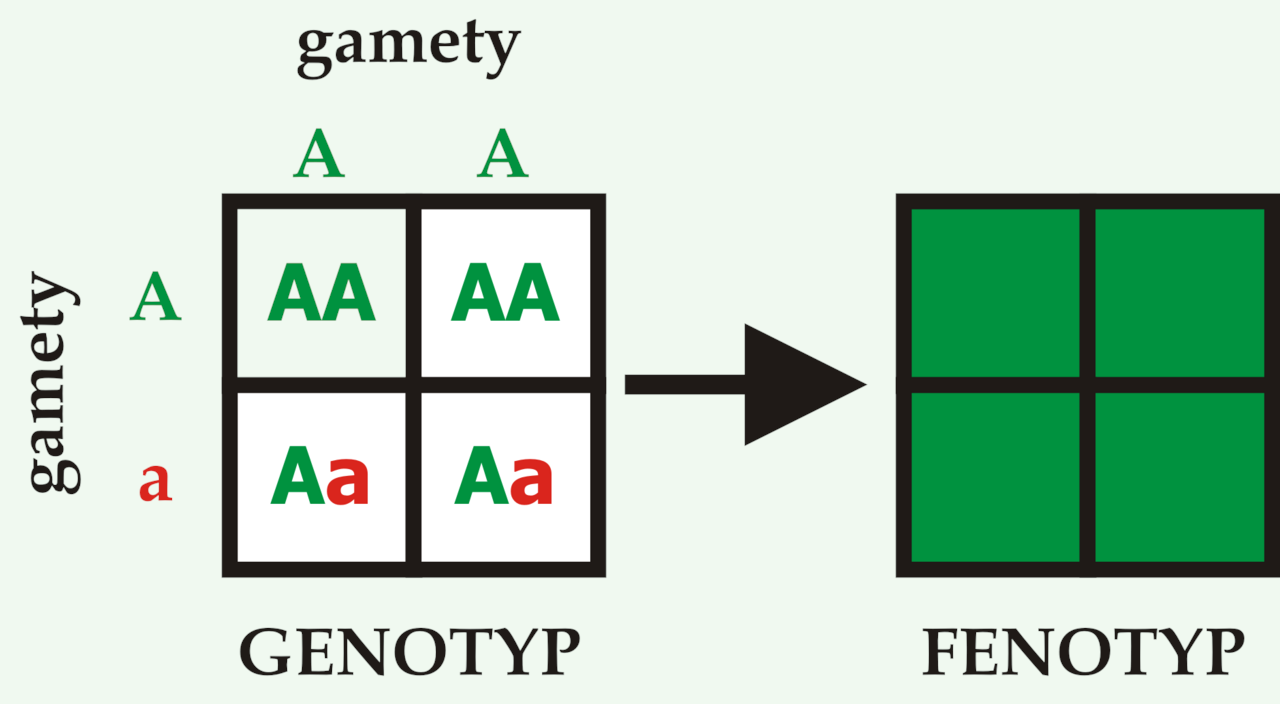
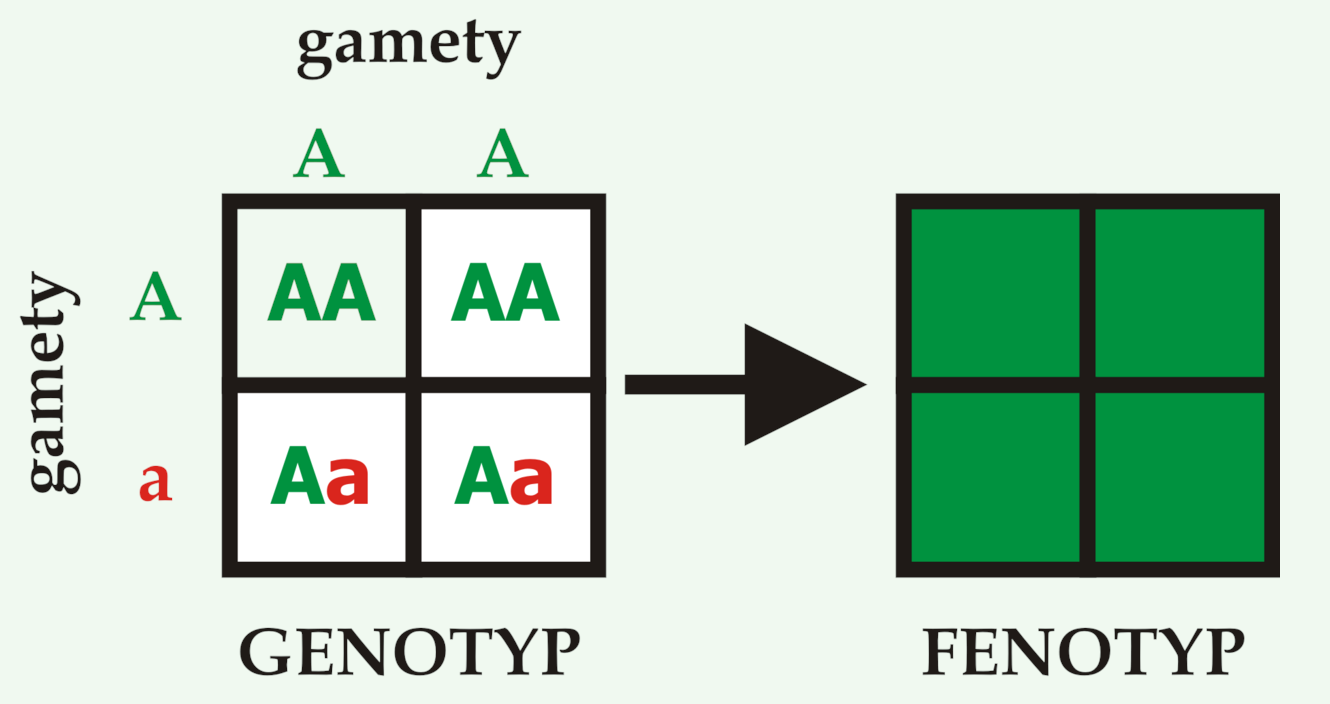
Texty pokračování

diff --git a/environmental-protection.html b/environmental-protection.html
@@ -211,7 +211,7 @@
             <p>Od 17. století ale začal počet obyvatel prudce stoupat. Hlavním důvodem byl zejména rozvoj zemědělství, díky němuž bylo k dispozici více potravy,
                 a také zlepšování hygieny i lékařských znalostí, které omezovalo epidemie, hlavně mor. Kolem roku 1650 měla Země asi 500 milionů obyvatel, v roce 1950 už 2,4 miliardy
                 a během dalších padesáti let dosáhl celkový počet lidí na Zemi 6 miliard. Doporučujeme se podívat na stránku Worldometers, kde najdete odhad aktuálního počtu obyvatel na Zemi. </p>
-                <a href="https://www.worldometers.info/cs/svetova-populace/" target="_blank" class="button" aria-label="Otevřít odhad aktuálního počtu obyvatel">Počet obyvatel na Worldometers</a>
+                <a href="https://www.worldometers.info/cs/svetova-populace/" target="_blank" class="button" aria-label="Otevřít odhad aktuálního počtu obyvatel">Počet obyvatel na Worldometers <span class="no-print">↗</span></a>
             <p>S rostoucím počtem obyvatel se zvyšují i nároky na potravu, spotřební zboží, bydlení, dopravu a další oblasti. To zákonitě znamená větší tlak na prostředí. Rozsáhlé odlesnění (a tedy vodní a větrná eroze a změna vodního režimu krajiny a klimatu)
                 nastalo již během starověku, neboť docházelo k rozvoji zemědělství. Po průmyslové revoluci v 18. století se navíc rozběhla intenzivnější těžba dřeva, uhlí, ropy a rud, rozšiřovala se města, vznikala nová sídla a budovaly se komunikace i další dopravní stavby.
                 Tyto zásahy vedly k výraznému poškození ekosystémů, k vyhubení nebo oslabení mnoha druhů organismů, ale i k šíření některých jiných druhů, například prasete, ovce, slepice, pšenice, rýže, brambor, potkana, vrabce nebo mouchy. </p>
@@ -361,7 +361,7 @@
             </div>
             <p>Jak vyplývá z předchozích částí, člověk vytváří na přírodu značný tlak a ohrožuje tím řadu druhů rostlin i živočichů. Je nutné chránit vybrané druhy a území, ale také
                 chránit i základní složky životního prostředí, tedy vodu, vzduch a půdu </p>
-            <ol style="list-style-type: upper-roman;">
+            <ol>
                 <li>
                     <h2>Ochrana přírody ve světě</h2>
                     <p>Mezi instituce zabývající se ochranou přírody ve světě patří například: </p>
@@ -388,15 +388,76 @@
 
                 <li>
                     <h2>Ochrana přírody v ČR</h2>
-                    <p>V České republice je ochrana přírody zakotvena v Ústavě a v Listině základních práv a svobod. O ochranu přírody se u nás starají: </p>
+                    <p>V České republice se ochrana přírody opírá o činnost státních institucí, odborných organizací i nevládních spolků. Jejich úkolem je chránit přírodní bohatství země, předcházet poškozování životního prostředí a pečovat o zachování
+                        biologické rozmanitosti pro budoucí generace. O ochranu přírody se u nás starají:  </p>
                     <ul class="no-break">
                         <li>Ministerstvo životního prostředí,</li>
                         <li>Česká inspekce životního prostředí,</li>
                         <li>Greenpeace ČR,</li>
                         <li>Duha aj.</li>
                     </ul>
-                    <p>V ČR zároveň přibývá chráněných území. Patří sem národní parky, například Krkonošský NP, NP Šumava, NP Podyjí a NP České Švýcarsko, dále chráněné krajinné oblasti, například CHKO Beskydy, Jeseníky
-                        nebo České středohoří, a také národní přírodní rezervace a další typy území. </p>
+                    <p>Činnost těchto institucí vychází z právních předpisů, které určují pravidla ochrany přírody a krajiny i jednotlivých složek životního prostředí. Ochrana přírody je v České republice zakotvena v Ústavě a v Listině základních práv a svobod
+                        a podrobně ji upravují další zákony. </p>
+                    <h3>Legislativa na ochranu přírody v ČR</h3>
+                    <ol style="list-style-type: lower-roman;">
+                        <li><strong>Zákon o ochraně přírody a krajiny (114/1992)</strong>: Tento zákon upravuje ochranu přírody a krajiny, stanovuje postupy a způsoby ochrany přírodních památek,
+                            chráněných krajinných oblastí a biosférických rezervací, řídí hospodaření s přírodními zdroji, stanovuje ochranu volně žijících živočichů a rostlin a upravuje odpovědnost za porušení zákona. Účelem zákona je za účasti
+                            příslušných krajů, obcí, vlastníků a správců pozemků přispět k udržení a obnově přírodní rovnováhy v krajině, k ochraně rozmanitostí forem života, přírodních hodnot a krás, k šetrnému hospodaření s přírodními zdroji.
+                            Přitom je nutno zohlednit hospodářské, sociální a kulturní potřeby obyvatel a regionální a místní poměry. </li>
+                        <li><strong>Zákon o ochraně ovzduší</strong>: Ochranou ovzduší se rozumí předcházení znečišťování ovzduší a snižování úrovně znečišťování tak, aby byla omezena rizika pro lidské zdraví způsobená znečištěním ovzduší,
+                            snížení zátěže životního prostředí látkami vnášenými do ovzduší a poškozujícími ekosystémy a vytvoření předpokladů pro regeneraci složek životního prostředí postižených v důsledku znečištění ovzduší. </li>
+                        <li><strong>Zákon o odpadech</strong>: Účelem tohoto zákona je zajistit vysokou úroveň ochrany životního prostředí a zdraví lidí a trvale udržitelné využívání přírodních zdrojů předcházením vzniku odpadů
+                            a nakládáním s nimi v souladu s hierarchií odpadového hospodářství. Tento zákon zapracovává pravidla pro předcházení vzniku odpadu a pro nakládání s ním, práva a povinnosti osob v odpadovém hospodářství
+                            a působnost orgánů veřejné správy v odpadovém hospodářství. </li>
+                        <li><strong>Zákon vodách</strong>: Účelem tohoto zákona je chránit povrchové a podzemní vody a stanovit podmínky pro hospodárné využívání vodních zdrojů. Dále zákon řeší také podmínky pro snižování nepříznivých
+                            účinků povodní a sucha a zajištění bezpečnosti vodních děl. Účelem tohoto zákona je též přispívat k zajištění zásobování obyvatelstva pitnou vodou a k ochraně vodních ekosystémů a na nich přímo závisejících
+                            suchozemských ekosystémů. </li>
+                        <li><strong>Zákon o lesích</strong>: Účelem tohoto zákona je stanovit předpoklady pro zachování lesa, péči o les a obnovu lesa jako národního bohatství, tvořícího nenahraditelnou složku životního prostředí,
+                            pro plnění všech jeho funkcí a pro podporu trvale udržitelného hospodaření v něm. </li>
+                    </ol>
+                    <p>Zákony procházejí novelizacemi, které vycházejí ze současného stavu našeho i světového prostředí. Na tyto zákony navazuje řada vyhlášek a dílčích zákonů, které upravují např. limity vypouštěných látek,
+                        poplatky a pokuty za znečišťování. </p>
+                    <p>Právě na základě těchto zákonů se v České republice uplatňuje obecná a zvláštní ochrana přírody a krajiny.</p>
+                    <h3>Obecná a zvláštní ochrana přírody a krajiny</h3>
+                    <p>Zákon o ochraně přírody a krajiny (114/1992) rozlišuje obecnou a zvláštní ochranu přírody. </p>
+                    <ol style="list-style-type: lower-roman;">
+                        <li><strong>Obecná ochrana přírody</strong> je taková, že všechny druhy rostlin včetně hub a živočichů jsou chráněny před zničením, poškozováním, sběrem či odchytem, který vede nebo by mohl vést k ohrožení
+                            nebo vyhubení. Je také zakázáno ničit jejich ekosystémy. Při porušení těchto podmínek je orgán ochrany přírody oprávněn rušivou činnost omezit stanovením závazných podmínek (např. udělit pokutu). Ochrana
+                            se nevztahuje např. na zásahy při hubení. </li>
+                        <li><strong>Zvláštní ochranu přírody</strong> dělíme na ochranu druhovou a územní:
+                            <ol style="list-style: lower-alpha;">
+                                <li><strong>Kategorie druhové ochrany</strong> (zvláště chráněné druhy):
+                                    <ul>
+                                        <li>kriticky ohrožený druh (koniklec jarní, medvěd hnědý, vlk)</li>
+                                        <li>silně ohrožený druh (leknín bílý, slepýš křehký, čáp černý) </li>
+                                        <li>ohrožený druh (dřín obecný, ropucha obecná, veverka obecná) </li>
+                                    </ul>
+                                    <p>Seznam ohrožených druhů je uveden ve vyhlášce. </p>
+                                </li>
+                                <li><strong>Kategorie územní ochrany</strong> (zvláště chráněná území v Česku): 
+                                    <ul>
+                                        <li>Národní parky</li>
+                                        <li>Chráněné krajinné oblasti (Beskydy, Jeseníky, České středohoří)</li> 
+                                        <li>Národní přírodní rezervace (Praděd) </li>    
+                                        <li>Přírodní rezervace (Kamenný vrch, Svatý kopeček)</li>     
+                                        <li>Národní přírodní památky (Pravčická brána) </li>    
+                                        <li>Přírodní památky (Žebětínský rybník) </li>
+                                    </ul>
+                                    <h4>Národní parky</h4>
+                                    <p>Národní parky jsou velkoplošně chráněná území s největším stupněm ochrany. Jsou členěny do 4 zón. </p>
+                                    <ul>
+                                        <li>Zóna 1 znamená nejvyšší způsob ochrany, v podstatě zachování volné přírody bez zásahů člověka. Jde o území člověkem téměř nedotčené a je snaha toto zachovat. Proto je do
+                                            těchto oblastí omezený vstup například skrz vyznačené povolené stezky. </li>
+                                        <li>Zóna 2 znamená území, kde člověk minimálně zasahuje, turistické cesty jsou řídké. Jsou zde významné a jedinečné ekosystémy, důraz je v nich kladen na regulaci šetrné péči a obhospodařování. </li>
+                                        <li>Zóna 3 je území s hospodářským lesním využitím, těží se dřevo, vysazují stromky, dokrmuje zvěř. Turistické cesty jsou hustší. </li>
+                                        <li>Zóna 4 představuje komerční zónu s hotely, stánky, parkovišti, dětskými atrakcemi, půjčovnami kol, koloběžek. </li>
+                                    </ul>
+                                    <p>České národní parky jsou: Krkonoše (nejstarší), Šumava (největší), Podyjí (nejmenší), České Švýcarsko (nejmladší). </p>
+                                    <a href="https://aopk.gov.cz/velkoplosna-zvlaste-chranena-uzemi" target="_blank" class="button" aria-label="Otevřít mapu chráněných území v Česku">Mapa zvláště chráněných území <span class="no-print">↗</span></a>
+                                </li>
+                            </ol>
+                        </li>
+                    </ol>
                 </li>
             </ol>
 

diff --git a/ecology-introduction.html b/ecology-introduction.html
@@ -453,10 +453,9 @@
 
             </div>
 
-            <small><em>*= Poznámka:</em> Pojem nika bývá bohužel v ekologii často používán nesprávně – k popisu místa, kde organismus žije, třeba
-                ve stylu ,,lesy jsou nikou veverek". Pro popis místa se správně používá termín habitat či stanoviště. Nika není popisem konkrétního místa,
-                nika je myšlenkový koncept představující souhrn všech faktorů potřebných k životu určitého organismu, spolu s jeho nároky na zdroje
-                a dalšími potřebami. Termín nika spíše popisuje, jak organismus žije, nikoli kde žije.</small>
+            <small><em>*= Poznámka:</em> Pojem nika se v ekologii často používá nesprávně — například k označení místa, kde organismus žije („lesy jsou nikou veverek“). Pro popis místa
+                se správně užívá termín habitat nebo stanoviště.  Nika není popisem konkrétního místa, nika je myšlenkový koncept představující souhrn všech faktorů potřebných k životu
+                určitého organismu, spolu s jeho nároky na zdroje a dalšími potřebami.  Nika tedy spíše popisuje, jak organismus žije, než kde žije.</small>
           <div class="zarazka"></div>
         </section>
 
@@ -471,7 +470,7 @@
                 <li><strong>Hustota populace</strong>: vyjadřuje počet jedinců určitého druhu na dané ploše nebo u vodních organismů v určitém objemu. Vyšší hustotu mají většinou menší organismy, zatímco velké druhy se v přírodě vyskytují spíše v menším počtu.
                     Pro zachování rovnováhy v biocenóze je důležité, aby hustota populace zůstávala v určitých mezích. Při příliš nízké hustotě mohou mít jedinci problém najít partnera k rozmnožování. Naopak příliš vysoká hustota vede k přemnožení,
                     které způsobuje nedostatek potravy, málo prostoru nebo zvýšený stres. </li>
-                <li><strong>Růst populace</strong>: velikost populace se může zvětšovat nebo zmenšovat. Ovlivňuje ji množivost, úmrtnost a migrace <dfn class="tooltip" role="presentation">migrace<span class="tooltiptext">stěhování</span></dfn> jedinců. </li>
+                <li><strong>Růst populace</strong>: velikost populace se může zvětšovat nebo zmenšovat. Ovlivňuje ji množivost, úmrtnost a <dfn class="tooltip" role="presentation">migrace<span class="tooltiptext">stěhování</span></dfn> jedinců. </li>
                 <li><strong>Rozmístění (rozptyl) populace</strong>: jedinci v populaci nebývají rozmístěni vždy stejně. Někdy je rozmístění rovnoměrné (stromy v některých lesích), jindy náhodné (rostliny na říčních náplavech). Nejčastěji
                     se ale setkáváme se shloučeným rozmístěním (stáda savců). </li>
                 <li><strong>Struktura populace</strong>: označuje složení populace podle různých hledisek. Může se hodnotit například podle pohlaví, věku nebo <dfn class="tooltip" role="presentation">sociální hierarchie jedinců<span class="tooltiptext">vzájemné vztahy a postavení jedinců</span></dfn>. </li>
@@ -492,14 +491,14 @@
                 <li>v keřovém patře nacházejí úkryt drobní ptáci a různé druhy hmyzu,</li>
                 <li>ve stromovém patře (nejvyšším) žije hmyz, ptáci i savci (veverky, kuny...). </li>
             </ul>
-            <p>Také ve vodorovném směru se druhové zastoupení mění – jiné organismy najdeme na okraji lesa a jiné v jeho středu, podobně jako se liší břeh rybníka od jeho středu. Důležitou úlohu mají přechodová pásma mezi biocenózami,
+            <p>Také ve vodorovném směru se druhové zastoupení mění – jiné organismy najdeme na okraji lesa a jiné v jeho středu, podobně jako se liší břeh rybníka od jeho středu. Důležitou roli hrají přechodová pásma mezi biocenózami,
                 protože zde vznikají specifické podmínky vhodné pro mnoho druhů organismů. </p>
             <h2>Rozvrstvení v čase</h2>
             <p>V průběhu roku lze ve většině biocenóz sledovat sezónní změny. Ty souvisejí hlavně se změnami teploty, vlhkosti a množství světla. V listnatých lesích například brzy na jaře rozkvétají sasanky a sněženky, zatímco
                 později vykvétají keře a listnaté stromy. </p>
             <h2>Stabilita společenstva</h2>
             <p>Jen stabilní společenstvo dokáže odolávat změnám podmínek biotopu. Stabilita je výsledkem dlouhodobého vývoje, během kterého vznikly složité vztahy mezi jednotlivými organismy. Zachování stability závisí
-                hlavně na druhové rozmanitosti (například tropický prales oproti poušti) a na zachování vhodnýchpodmínek biotopu. Náhlé změny prostředí, jako výbuch sopky nebo rozsáhlý požár, mohou stabilitu společenstva výrazně narušit. </p>
+                hlavně na druhové rozmanitosti (například tropický prales oproti poušti) a na zachování vhodných podmínek biotopu. Náhlé změny prostředí, jako výbuch sopky nebo rozsáhlý požár, mohou stabilitu společenstva výrazně narušit. </p>
         </section>
 
         <section>
@@ -559,9 +558,9 @@
             <h3>Půda</h3>
             <p>Půda je zdrojem většiny anorganických živin rostliny a životním prostředím edafonů. Vlastnosti půdy ovlivňující organismy jsou <dfn class="tooltip" role="presentation">pórovitost<span class="tooltiptext">drobné otvory v půdě</span></dfn>, teplota, chemické složení půdy aj.</p>
             <h2>Biotické faktory</h2>
-            <p>Vztahy mezi populacemi zahrnují například: </p>
+            <p>Symbióza je v širším slova smyslu úzké soužití dvou a více organismů a může se jednat o soužití výhodné, nevýhodné či neutrální. Vztahy mezi populacemi zahrnují například:  </p>
             <ul>
-                <li><strong>Mutualismus</strong>: soužití, které je nezbytné pro oba druhy (např. mořská sasanka žijící na ulitě poustevníčka) </li>
+                <li><strong>Mutualismus</strong>: typ symbiózy, které je nezbytné pro oba druhy (např. mořská sasanka žijící na ulitě poustevníčka) </li>
                 <li><strong>Komenzalismus</strong>: soužití nezbytné pro jeden druh, zatímco druhý z něj nemá ani prospěch, ani újmu (hyeny využívají zbytky kořisti ulovené lvy) </li>
                 <li><strong>Konkurence</strong>: vzájemné soutěžení mezi populacemi o potravu, prostor, přístup k vodě atd. (káně a poštolka soupeří o stejný zdroj potravy: drobné hlodavce)  </li>
                 <li><strong>Amenzalismus</strong>: jedna populace vytváří chemické látky, kterými potlačuje růst druhé populace (trnovník akát vylučuje do půdy látky zabraňující růstu jiných rostlin) </li>

diff --git a/genetics.html b/genetics.html
@@ -287,18 +287,6 @@
                     dvě sady chromozomů (jeden chromozom od matky, druhý od otce), obsahuje každý genový pár vždy dvě alely. </li>
                 <li><strong>Lokus</strong> je konkrétní, přesně určené místo na chromozomu, kde se nachází určitý gen (např. gen pro barvu květu). </li>
             </ul>
-            <div class="img-responsive">
-                <div class="img-wrapper img-right-big">
-                    <picture>
-                        <source srcset="images/webp/alela.webp" type="image/webp" data-src="images/webp/alela.webp" data-source="Vlastní dílo. Ⓒ Denisa Kaloková, s využitím obrázků z cancerbiologyresearch.com a z commons.wikimedia.org">
-                        <img src="images/png/alela.png" data-src="images/png/alela.png" loading="lazy" class="zoomable" data-source="Vlastní dílo. Ⓒ Denisa Kaloková, s využitím obrázků z cancerbiologyresearch.com a z commons.wikimedia.org" alt="XXX" style="cursor: pointer;">
-                    </picture>   
-                    <div class="info-box" aria-hidden="true">
-                        <div class="icon-circle">i</div>
-                        <span>Ⓒ Denisa Kaloková, <a href="https://cancerbiologyresearch.com/genes-alleles-loci-explained/" target="_blank" tabindex="-1" class="info-box-link">Cancer Biology Research</a>, <a href="https://commons.wikimedia.org/w/index.php?curid=41175399" target="_blank" tabindex="-1" class="info-box-link">Wikimedia Commons</a></span>
-                    </div>
-                </div>
-            </div>
             <h2>Dominantní vs. recesivní alely</h2>
             <p>Alely v genovém páru nemají vždy stejnou sílu. Rozlišujeme je pomocí písmen abecedy: </p>
             <ol style="list-style-type: upper-roman;" class="no-break">
@@ -362,7 +350,7 @@
                 </picture>
                 <div class="info-box" aria-hidden="true">
                     <div class="icon-circle">i</div>
-                    <span>Ⓒ Denisa Kaloková, upraveno z <a href="https://commons.wikimedia.org/w/index.php?curid=20692071" target="_blank" tabindex="-1" class="info-box-link">Wikimedia Commons, volné dílo</a></span>
+                    <span>Ⓒ Denisa Kaloková, úprava <a href="https://commons.wikimedia.org/w/index.php?curid=20692071" target="_blank" tabindex="-1" class="info-box-link" title="Wikimedia Commons, volné dílo">Commons</a></span>
                 </div>
             </div>
             <div class="zarazka"></div>
@@ -407,7 +395,7 @@
                 </picture>
                 <div class="info-box" aria-hidden="true">
                     <div class="icon-circle">i</div>
-                    <span>Ⓒ Denisa Kaloková, upraveno z <a href="https://commons.wikimedia.org/w/index.php?curid=20692082" target="_blank" tabindex="-1" class="info-box-link">Wikimedia Commons, volné dílo</a></span>
+                    <span>Ⓒ Denisa Kaloková, úprava<a href="https://commons.wikimedia.org/w/index.php?curid=20692082" target="_blank" tabindex="-1" class="info-box-link" title="Wikimedia Commons, volné dílo"> Commons</a></span>
                 </div>
             </div>
             <h2>3. Mendelův zákon: Zákon o volné kombinovatelnosti alel</h2>

diff --git a/climate-change.html b/climate-change.html
@@ -208,7 +208,8 @@
                 Současná klimatická změna je v první řadě důsledkem lidské činnosti. Největší podíl na ní má spalování uhlí, ropy a zemního plynu, které mění složení atmosféry a zvyšuje množství
                 skleníkových plynů. Tím se zesiluje skleníkový efekt a planeta se otepluje. Změna klimatu se tak liší od dřívějších přirozených výkyvů: dnes je její hlavní příčinou
                 člověk. V globálním měřítku už bylo zaznamenáno oteplení zhruba o 1,2 °C oproti druhé polovině 19. století a v České republice přibližně o 2,1 °C od roku 1960.
-                Zároveň roste koncentrace oxidu uhličitého v atmosféře, která dosáhla v roce 2022 hodnoty 420 ppm. 
+                Zároveň roste koncentrace oxidu uhličitého v atmosféře, která dosáhla v roce 2022 hodnoty 420
+                <dfn class="tooltip" role="presentation">ppm<span class="tooltiptext" aria-hidden="true">parts per million, <br>jednotka vyjádření koncentrace, <br>miliontina ze 100 %</span></dfn>.
                 </p>
             
             <h2>Skleníkový efekt</h2>
@@ -249,7 +250,7 @@
 
             <h2>Mitigace: jak omezit příčiny změny klimatu</h2>
             <p>
-                Mitigace znamená opatření, která vedou ke snížení emisí skleníkových plynů nebo alespoň ke zpomalení jejich růstu. Nejde jen o energetiku, ale také o dopravu, spotřebu
+                Mitigace znamená opatření, která vedou ke snížení <dfn class="tooltip" role="presentation">emisí<span class="tooltiptext" aria-hidden="true"> množství znečišťujících látek, <br> které se ze zdroje <br> uvolňují do ovzduší</span></dfn> skleníkových plynů nebo alespoň ke zpomalení jejich růstu. Nejde jen o energetiku, ale také o dopravu, spotřebu
                 energie v domácnostech, výběr výrobků s delší životností, způsob stravování i omezování plýtvání potravinami. Důležité je především snižovat spotřebu energie a postupně omezovat
                 využívání zdrojů, které významně přispívají ke změně klimatu. 
             </p>

diff --git a/ecosystems.html b/ecosystems.html
@@ -243,7 +243,8 @@
             <p>Síra vstupuje do rostlin především ve formě síranů. Ty se do půdy dostávají rozkladem odumřelých organismů a také oxidací SO<sub>2</sub> pocházejícího
                 z <dfn class="tooltip" role="presentation">imisí<span class="tooltiptext">znečištění ovzduší a životního <br> prostředí, které vzniká <br> dopadem emisí (škodlivin <br> z komínů či výfuků)</span></dfn> (průmyslová činnost, sopečné aktivity...) </p>
             <h3>Koloběh vody</h3>
-            <p>Na Zemi probíhá trvalý oběh vody mezi atmosférou, půdou, vodními plochami a živými organismy. </p>
+            <p>Na Zemi probíhá trvalý oběh vody mezi atmosférou, půdou, vodními plochami a živými organismy. Rozlišujeme ho na velký a malý koloběh. Velký koloběh zahrnuje výpar z oceánů, přenos vodních par atmosférou, srážky na pevnině a návrat vody řekami zpět do moří.
+                Při malém koloběhu voda cirkuluje lokálně mezi půdou, rostlinami a vzduchem (evaporace a transpirace vedou k tvorbě místních srážek) bez významného zapojení oceánů.  </p>
             <h2>Přírodní a umělé ekosystémy</h2>
             <p>Na Zemi se vyskytuje řada ekosystémů. Přírodních, tedy člověkem docela nedotčených, zbývá velmi málo. Další jsou přirozené, které lidská činnost je téměř neovlivnila, jiné člověk do určité míry upravuje, označované jako umělé. Tyto typy ekosystémů
                 se výrazně liší v mnoha ohledech, zejména v stabilitě. </p>

diff --git a/css/style.css b/css/style.css
@@ -244,6 +244,7 @@ article {
 .breadcrumb li {
     display: flex;
     align-items: center;
+    line-height: calc(0.9em * 1.4);
 }
 
 .breadcrumb li + li::before {
@@ -347,7 +348,7 @@ article section h1 + a:focus-visible {
 
 article section .h1 {
     margin-left: 0;
-    margin-top: 100px; /* Mezera */
+    margin-top: 5em; /* Mezera */
     margin-bottom: 0.9em;
     text-align: left; /* zajistí, že se mezery nebudou natahovat */
     hyphens: none;
@@ -364,8 +365,7 @@ article section h2 {
 
 article section ol h2,
 article section ul h2 {
-    text-decoration: none !important; /* !important kvůli dark-mode.js */
-    font-size: 1.1em;
+    font-size: 1.2em;
     margin-top: 2.5em;
     margin-bottom: 0.4em;
 }
@@ -480,6 +480,10 @@ footer a.logo-container {
     width: 10em;
     margin: 2em auto 0.4em auto;
     display: block;
+}
+
+footer a.logo-container img {
+    max-width: 100%; /* Sice je v img.css nastaveno pro všechny obrázky, ale tento CSS není nezbytný */
 }
 
 .sidemap,
@@ -601,7 +605,9 @@ table {
 }
 
 .table-small table {
-    min-width: fit-content;
+    min-width: 240px;
+    max-width: 600px;
+    width: 50%;
 }
 
 /* Pro čtečky, neviditelné */
